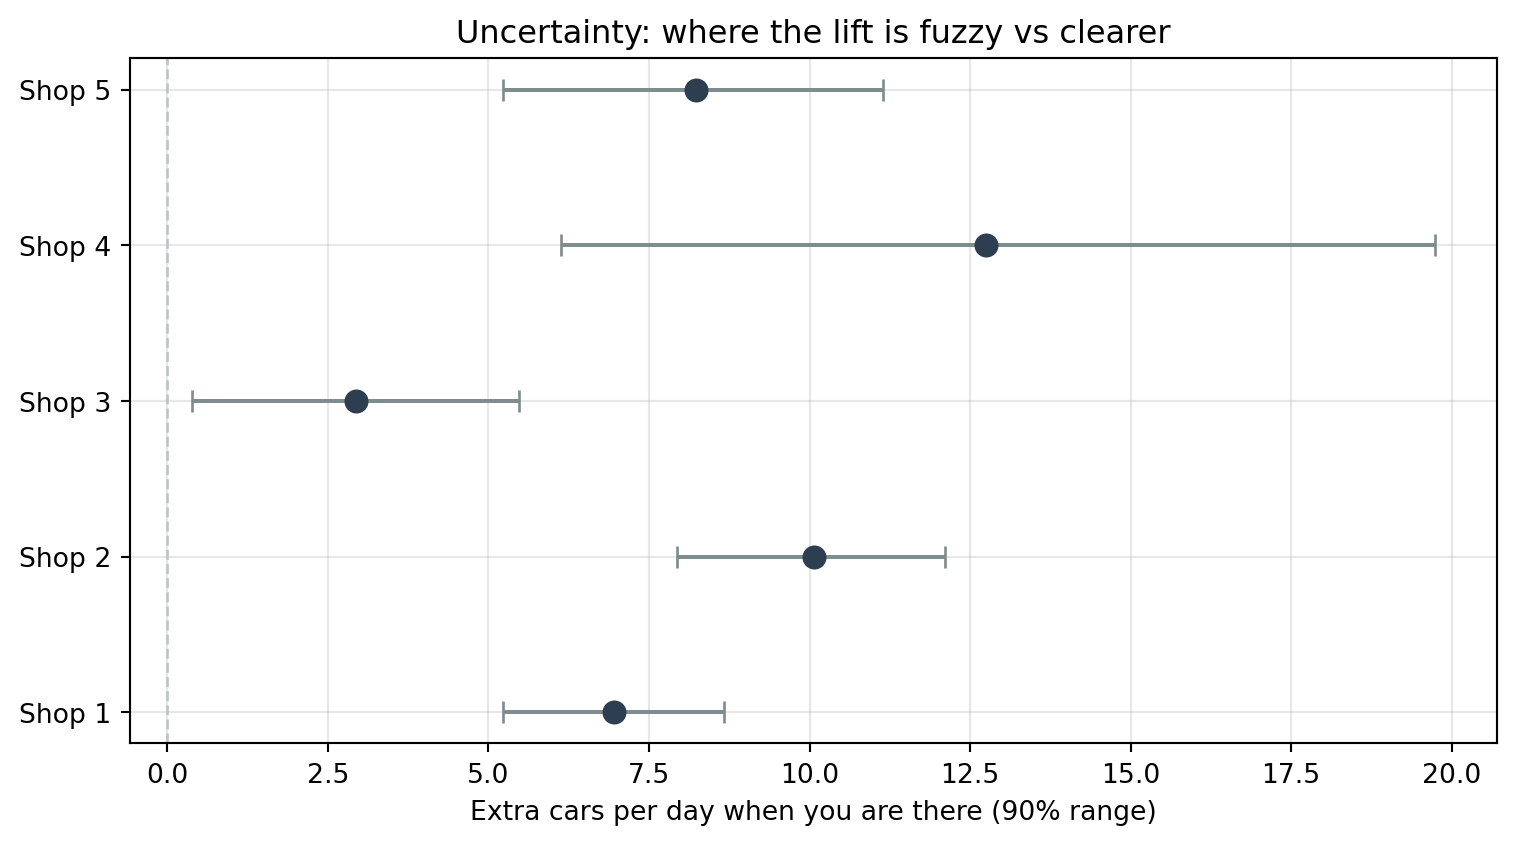
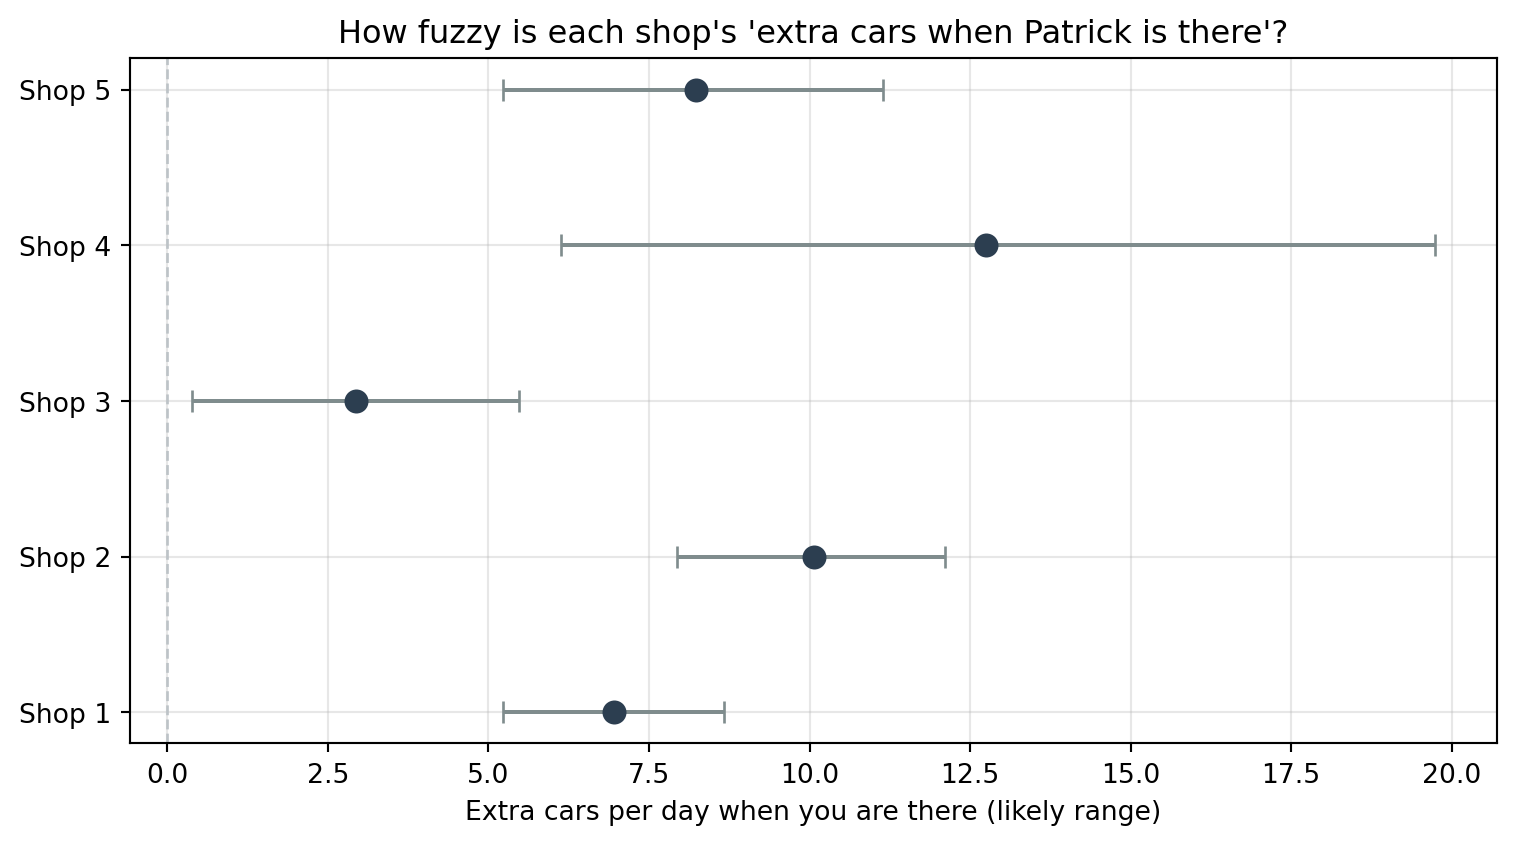
full draft completed

Changed region(s): [[0.2172, 0.0308, 0.8376, 0.0616], [0.3102, 0.9242, 0.7756, 0.9858]]

diff --git a/index.html b/index.html
@@ -50,12 +50,12 @@ ul.task-list li input[type="checkbox"] {
     <h2 id="toc-title">Table of contents</h2>
    
   <ul class="collapse">
-  <li><a href="#executive-summary" id="toc-executive-summary" class="nav-link active" data-scroll-target="#executive-summary">Executive summary</a></li>
-  <li><a href="#what-the-data-shows" id="toc-what-the-data-shows" class="nav-link" data-scroll-target="#what-the-data-shows">What the data shows</a></li>
-  <li><a href="#how-confident-can-you-be" id="toc-how-confident-can-you-be" class="nav-link" data-scroll-target="#how-confident-can-you-be">How confident can you be?</a></li>
-  <li><a href="#what-you-should-do" id="toc-what-you-should-do" class="nav-link" data-scroll-target="#what-you-should-do">What you should do</a></li>
-  <li><a href="#money-picture-illustration-only" id="toc-money-picture-illustration-only" class="nav-link" data-scroll-target="#money-picture-illustration-only">Money picture (illustration only)</a></li>
-  <li><a href="#future-look-simple-scheduling-scenarios" id="toc-future-look-simple-scheduling-scenarios" class="nav-link" data-scroll-target="#future-look-simple-scheduling-scenarios">Future look: simple scheduling scenarios</a></li>
+  <li><a href="#executive-summary-plain-english" id="toc-executive-summary-plain-english" class="nav-link active" data-scroll-target="#executive-summary-plain-english">Executive summary (plain English)</a></li>
+  <li><a href="#what-we-measured" id="toc-what-we-measured" class="nav-link" data-scroll-target="#what-we-measured">What we measured</a></li>
+  <li><a href="#how-sure-can-we-be" id="toc-how-sure-can-we-be" class="nav-link" data-scroll-target="#how-sure-can-we-be">How sure can we be?</a></li>
+  <li><a href="#recommendations-for-you-running-the-business" id="toc-recommendations-for-you-running-the-business" class="nav-link" data-scroll-target="#recommendations-for-you-running-the-business">Recommendations (for you, running the business)</a></li>
+  <li><a href="#money-picture-rough-illustration-only" id="toc-money-picture-rough-illustration-only" class="nav-link" data-scroll-target="#money-picture-rough-illustration-only">Money picture (rough illustration only)</a></li>
+  <li><a href="#future-look-what-if-i-spend-those-days-somewhere-else" id="toc-future-look-what-if-i-spend-those-days-somewhere-else" class="nav-link" data-scroll-target="#future-look-what-if-i-spend-those-days-somewhere-else">Future look: “what if I spend those days somewhere else?”</a></li>
   <li><a href="#closing" id="toc-closing" class="nav-link" data-scroll-target="#closing">Closing</a></li>
   </ul>
 </nav>
@@ -65,7 +65,7 @@ ul.task-list li input[type="checkbox"] {
 <header id="title-block-header" class="quarto-title-block default">
 <div class="quarto-title">
 <h1 class="title">Scheduling Report for Patrick</h1>
-<p class="subtitle lead">Where Your Presence Adds the Most Cars (and Revenue)</p>
+<p class="subtitle lead">Where Showing Up Moves the Most Cars Through the Doors</p>
 </div>
 
 
@@ -82,15 +82,22 @@ ul.task-list li input[type="checkbox"] {
 </header>
 
 
-<section id="executive-summary" class="level2">
-<h2 class="anchored" data-anchor-id="executive-summary">Executive summary</h2>
-<p>Patrick, you asked a simple question: <strong>when you show up at one shop for the day, where does it pay off most?</strong> This report uses 50 days of records across your five shops (250 shop‑days total). The clearest pattern: <strong>Shops 4 and 2 jump the most when you are there.</strong> Shop 3 moves the least—so if you love visiting your brother there, that is fine emotionally, but the numbers say it is not where you “buy” the most extra cars with your time.</p>
-<p>Because some shops have very few “boss present” days in the data, treat the exact numbers as <strong>ballpark guides</strong>, not guarantees. The charts show every single row we have, and the scenario chart translates the pattern into <strong>what could change if you shift where you spend days.</strong></p>
+<section id="executive-summary-plain-english" class="level2">
+<h2 class="anchored" data-anchor-id="executive-summary-plain-english">Executive summary (plain English)</h2>
+<p>Patrick, you wanted to know: <strong>if you spend a day at one location instead of another, where does your being there actually show up in the work count?</strong></p>
+<p>We looked at <strong>50 days</strong> of records across <strong>five shops</strong>. Think of that as <strong>250 separate snapshots</strong>: each snapshot is “one shop, one day,” with how many cars got finished that day and whether you were on site.</p>
+<p><strong>What we found</strong></p>
+<ul>
+<li><strong>Shops 4 and 2</strong> are where your visits line up with the <strong>biggest bump</strong> in cars completed versus days you were not there.</li>
+<li><strong>Shop 3</strong> shows the <strong>smallest bump</strong>. That does <strong>not</strong> mean Shop 3 is a bad shop or that you should feel guilty about family there—it means <strong>your time on the floor moves the needle least there</strong>, compared with 4 and 2.</li>
+</ul>
+<p><strong>How seriously to take the exact numbers</strong></p>
+<p>You were not recorded at every shop equally often. Some locations only have a few “Patrick was here” days in this file. So treat the figures as <strong>rough guides</strong>, not promises. They still tell a useful story about <strong>where your presence shows up most</strong>.</p>
 <hr>
 </section>
-<section id="what-the-data-shows" class="level2">
-<h2 class="anchored" data-anchor-id="what-the-data-shows">What the data shows</h2>
-<p>Each point in <a href="#fig-all-points" class="quarto-xref">Figure&nbsp;1</a> is one shop‑day: cars fixed that day, split by whether you were there. Jitter and transparency keep all <strong>250</strong> points visible.</p>
+<section id="what-we-measured" class="level2">
+<h2 class="anchored" data-anchor-id="what-we-measured">What we measured</h2>
+<p>Each dot in <a href="#fig-all-points" class="quarto-xref">Figure&nbsp;1</a> is <strong>one shop, one day</strong>: how many cars were fixed that day, and whether you were there. (The dots are nudged slightly left or right so overlapping points do not stack on top of each other—that is all “jitter” means.)</p>
 <div id="cell-fig-all-points" class="cell" data-execution_count="1">
 <div class="cell-output cell-output-display">
 <div id="fig-all-points" class="quarto-float quarto-figure quarto-figure-center anchored">
@@ -99,18 +106,18 @@ ul.task-list li input[type="checkbox"] {
 <img src="index_files/figure-html/fig-all-points-output-1.png" width="950" height="518" class="figure-img">
 </div>
 <figcaption class="quarto-float-caption-bottom quarto-float-caption quarto-float-fig" id="fig-all-points-caption-0ceaefa1-69ba-4598-a22c-09a6ac19f8ca">
-Figure&nbsp;1: Every shop-day in the file (250 points). Orange = you were there; blue = you were not. Jitter helps overlapping points show.
+Figure&nbsp;1: Each dot is one shop-day (250 total). Orange = you were on site; blue = you were not. Dots are spread sideways slightly so you can see pile-ups.
 </figcaption>
 </figure>
 </div>
 </div>
 </div>
-<p><a href="#tbl-lift" class="quarto-xref">Table&nbsp;1</a> summarizes average cars with and without you, and the <strong>lift</strong> (extra cars per day when you are there, on average).</p>
+<p><a href="#tbl-lift" class="quarto-xref">Table&nbsp;1</a> is the scorecard: for each shop, <strong>average cars on days you were there</strong> versus <strong>average cars on days you were not</strong>, and the <strong>extra cars per day</strong> when you show up (the difference).</p>
 <div class="cell" data-execution_count="2">
 <div id="tbl-lift" class="cell quarto-float quarto-figure quarto-figure-center anchored" data-execution_count="2">
 <figure class="quarto-float quarto-float-tbl figure">
 <figcaption class="quarto-float-caption-top quarto-float-caption quarto-float-tbl" id="tbl-lift-caption-0ceaefa1-69ba-4598-a22c-09a6ac19f8ca">
-Table&nbsp;1: Average cars fixed when you are absent vs present, and the lift (present minus absent) by shop.
+Table&nbsp;1: Per shop: how many days fall in each bucket, average cars when you were away vs on site, and extra cars per day when you are there.
 </figcaption>
 <div aria-describedby="tbl-lift-caption-0ceaefa1-69ba-4598-a22c-09a6ac19f8ca">
 <div class="cell-output cell-output-display" data-execution_count="2">
@@ -186,12 +193,13 @@ Table&nbsp;1: Average cars fixed when you are absent vs present, and the lift (p
 </figure>
 </div>
 </div>
-<p><strong>Plain English read:</strong> Shops <strong>4</strong> and <strong>2</strong> show the largest lift. Shop <strong>3</strong> shows a small lift. That does not mean Shop 3 is “bad”—it means <strong>your presence there does not move the needle as much</strong> as it does at 4 and 2.</p>
+<p><strong>How to read it:</strong> Shops <strong>4</strong> and <strong>2</strong> show the largest <strong>extra cars per day</strong> when you are there. Shop <strong>3</strong> shows a small bump. Again: small bump at 3 is about <strong>your impact when you visit</strong>, not whether the crew there is any good.</p>
 <hr>
 </section>
-<section id="how-confident-can-you-be" class="level2">
-<h2 class="anchored" data-anchor-id="how-confident-can-you-be">How confident can you be?</h2>
-<p>We only have <strong>50</strong> calendar days and <strong>250</strong> shop‑days. Worse, you were only recorded as “present” a handful of times at some shops (see the <code>n_present</code> column in <a href="#tbl-lift" class="quarto-xref">Table&nbsp;1</a>). With small counts, one busy week can skew averages.</p>
+<section id="how-sure-can-we-be" class="level2">
+<h2 class="anchored" data-anchor-id="how-sure-can-we-be">How sure can we be?</h2>
+<p>Fifty days is a start, not a lifetime of data. At some shops, <strong>“Patrick was here”</strong> only happened a few times in the file (see how many days are in each column in <a href="#tbl-lift" class="quarto-xref">Table&nbsp;1</a>). When the counts are low, <strong>one unusually busy or slow stretch</strong> can pull the averages up or down.</p>
+<p>The next chart is our way of saying <strong>“the truth might sit somewhere in this band.”</strong> We ran a standard statistical check (resampling the days you do have) to draw a <strong>range</strong> for the “extra cars when you are there” number. You do not need the math—just know: <strong>wider range = we are less sure</strong>, often because we rarely saw you at that shop in this dataset.</p>
 <div id="cell-fig-bootstrap-lift" class="cell" data-execution_count="3">
 <div class="cell-output cell-output-display">
 <div id="fig-bootstrap-lift" class="quarto-float quarto-figure quarto-figure-center anchored">
@@ -200,34 +208,36 @@ Table&nbsp;1: Average cars fixed when you are absent vs present, and the lift (p
 <img src="index_files/figure-html/fig-bootstrap-lift-output-1.png" width="758" height="422" class="figure-img">
 </div>
 <figcaption class="quarto-float-caption-bottom quarto-float-caption quarto-float-fig" id="fig-bootstrap-lift-caption-0ceaefa1-69ba-4598-a22c-09a6ac19f8ca">
-Figure&nbsp;2: Bootstrap ranges (middle 90%) for ‘extra cars when you are there’ at each shop. Wider bars mean more uncertainty—often because you were rarely present in the data.
+Figure&nbsp;2: For each shop, a likely range for ‘extra cars when Patrick is there.’ Long horizontal bars mean the number could be higher or lower than the dot—we have fewer comparable days.
 </figcaption>
 </figure>
 </div>
 </div>
 </div>
-<p><strong>What could go wrong?</strong> The future may not match the past. Competitors, staffing, seasonality, and luck all matter. The main assumption here is that <strong>past “you there” days are a fair preview of future “you there” days</strong> at each shop.</p>
+<p><strong>Reality check:</strong> Next month could look different from last month—parts delays, who called in sick, weather, competition. This report assumes <strong>a day with you there in the past is a fair guess at a day with you there in the future</strong> for that same shop. That is reasonable for planning, but it is not a crystal ball.</p>
 <hr>
 </section>
-<section id="what-you-should-do" class="level2">
-<h2 class="anchored" data-anchor-id="what-you-should-do">What you should do</h2>
+<section id="recommendations-for-you-running-the-business" class="level2">
+<h2 class="anchored" data-anchor-id="recommendations-for-you-running-the-business">Recommendations (for you, running the business)</h2>
 <ol type="1">
-<li><strong>Prioritize presence at Shops 4 and 2</strong> when the goal is to maximize extra cars from your visits.<br>
+<li><strong>When you want your days on the floor to pull the most weight</strong>, lean toward <strong>Shops 4 and 2</strong> first—those are where the data shows the <strong>biggest gain in cars completed</strong> on days you are there.<br>
 </li>
-<li><strong>Do not read Shop 3’s small lift as “skip family.”</strong> It means that if you have a fixed number of “Patrick on the floor” days, <strong>moving some of those days from 3 to 4 or 2 is where the spreadsheet moves most.</strong><br>
+<li><strong>Shop 3 is not “the problem shop.”</strong> The data only says your physical presence there <strong>does not add as many extra cars</strong> as it does at 4 and 2. If you only have so many days a year to be in the bays, <strong>shifting some of those days from 3 toward 4 or 2 is where the count moves most</strong>—without saying anything bad about the people at 3.<br>
 </li>
-<li><strong>Keep watching the numbers</strong> as you get more “you there” days at 4 and 2—those averages will stabilize.</li>
+<li><strong>Keep tracking this</strong> as you log more “Patrick was here” days, especially at 4 and 2. More weeks of data will make the averages <strong>steadier and easier to trust</strong>.</li>
 </ol>
 <hr>
 </section>
-<section id="money-picture-illustration-only" class="level2">
-<h2 class="anchored" data-anchor-id="money-picture-illustration-only">Money picture (illustration only)</h2>
-<p>Pick a dollar amount per car so the math is easy to follow. If you use <strong>$200 revenue per car</strong> (change this to your real number), then <strong>one extra car per day</strong> is about <strong>$73,000/year</strong> if it happened five days a week for 52 weeks (<code>200 * 5 * 52</code>). That is not a promise—just a way to turn “cars” into “money in your head.”</p>
+<section id="money-picture-rough-illustration-only" class="level2">
+<h2 class="anchored" data-anchor-id="money-picture-rough-illustration-only">Money picture (rough illustration only)</h2>
+<p>Cars turn into rent and payroll when you multiply by <strong>what you actually average per car</strong>—use your books, not our placeholder.</p>
+<p>The table below uses <strong>$200 per car</strong> only as a simple example. It asks: <em>if the “extra cars when you are there” pattern showed up on <strong>one day each week</strong> for a full year</em>, what would that rough revenue look like? That matches the math in the table (<code>extra cars × \$200 × 52 weeks</code>). It is <strong>not</strong> a guarantee—just a way to picture size.</p>
+<p><strong>Quick mental math (optional):</strong> If you prefer to think in <strong>five shop days a week</strong>, each extra car per day at $200 is about <strong>$52,000/year</strong> (<code>200 × 5 × 52</code>). Same idea: plug your real dollar per car.</p>
 <div class="cell" data-execution_count="4">
 <div id="tbl-money" class="cell quarto-float quarto-figure quarto-figure-center anchored" data-execution_count="4">
 <figure class="quarto-float quarto-float-tbl figure">
 <figcaption class="quarto-float-caption-top quarto-float-caption quarto-float-tbl" id="tbl-money-caption-0ceaefa1-69ba-4598-a22c-09a6ac19f8ca">
-Table&nbsp;2: Illustrative annual revenue from the lift, if that lift happened one extra day per week all year, at $200 per car (adjust to your actual ticket).
+Table&nbsp;2: Rough annual dollars if the ‘extra cars when Patrick is there’ pattern happened one day per week all year, at $200 per car—swap in your real average ticket.
 </figcaption>
 <div aria-describedby="tbl-money-caption-0ceaefa1-69ba-4598-a22c-09a6ac19f8ca">
 <div class="cell-output cell-output-display" data-execution_count="4">
@@ -284,9 +294,10 @@ Table&nbsp;2: Illustrative annual revenue from the lift, if that lift happened o
 </div>
 <hr>
 </section>
-<section id="future-look-simple-scheduling-scenarios" class="level2">
-<h2 class="anchored" data-anchor-id="future-look-simple-scheduling-scenarios">Future look: simple scheduling scenarios</h2>
-<p><a href="#fig-scenarios" class="quarto-xref">Figure&nbsp;3</a> shows a <strong>what‑if</strong>: if in a year you <strong>moved</strong> some of your on‑site days from Shop 3 to another shop, how many <strong>extra cars</strong> that could add, using the lifts we measured. This is not a full simulator—it is a transparent back‑of‑the‑envelope so you can see direction and scale.</p>
+<section id="future-look-what-if-i-spend-those-days-somewhere-else" class="level2">
+<h2 class="anchored" data-anchor-id="future-look-what-if-i-spend-those-days-somewhere-else">Future look: “what if I spend those days somewhere else?”</h2>
+<p><a href="#fig-scenarios" class="quarto-xref">Figure&nbsp;3</a> is a <strong>simple story problem</strong>, not precision forecasting. It says: <em>Suppose over a year you took <strong>20 days</strong> you would have spent at Shop 3 and worked those days at Shop 4, 2, or 5 instead.</em> How many <strong>extra cars for the year</strong> might that add, using the patterns we already saw?</p>
+<p>The bars show <strong>order of magnitude</strong> (more vs less), not a promise. If you start visiting one shop way more often, the shop’s rhythm can change—this is a starting point for conversation, not a contract.</p>
 <div id="cell-fig-scenarios" class="cell" data-execution_count="5">
 <div class="cell-output cell-output-display">
 <div id="fig-scenarios" class="quarto-float quarto-figure quarto-figure-center anchored">
@@ -295,7 +306,7 @@ Table&nbsp;2: Illustrative annual revenue from the lift, if that lift happened o
 <img src="index_files/figure-html/fig-scenarios-output-1.png" width="853" height="422" class="figure-img">
 </div>
 <figcaption class="quarto-float-caption-bottom quarto-float-caption quarto-float-fig" id="fig-scenarios-caption-0ceaefa1-69ba-4598-a22c-09a6ac19f8ca">
-Figure&nbsp;3: Rough extra cars per year if you move ‘presence days’ from Shop 3 to another shop (uses observed lift gap × days moved). Bars are optimistic if lifts change when you visit more often.
+Figure&nbsp;3: Rough extra cars per year if 20 of your Shop 3 days moved to another shop (based on the gaps we measured). Treat as directional, not exact.
 </figcaption>
 </figure>
 </div>
@@ -305,7 +316,9 @@ Figure&nbsp;3: Rough extra cars per year if you move ‘presence days’ from Sh
 </section>
 <section id="closing" class="level2">
 <h2 class="anchored" data-anchor-id="closing">Closing</h2>
-<p><strong>Bottom line:</strong> the data says your presence <strong>matters most at Shops 4 and 2</strong>, and <strong>least at Shop 3</strong> in terms of extra cars per visit. Use that to steer your calendar, stay humble about sample size, and update this picture as you collect more balanced weeks at each location.</p>
+<p><strong>Outcomes:</strong> On days we could compare, <strong>Shops 4 and 2</strong> pick up the most extra cars when you are on the floor. <strong>Shop 3</strong> picks up the least—again, that is about <strong>your visit</strong>, not a grade on the staff.</p>
+<p><strong>Results you can use:</strong> When you are deciding <strong>where to put your own boots-on-the-ground days</strong>, lean toward <strong>4 and 2</strong> if the goal is to move the car count. Keep logging visits so the picture gets clearer over time.</p>
+<p><strong>Recommendations:</strong> (1) <strong>Calendar:</strong> favor 4 and 2 for high-impact days when you can. (2) <strong>Shop 3:</strong> no shame in family or loyalty—just know the numbers say <strong>fewer extra cars per visit</strong> there. (3) <strong>Next step:</strong> add more weeks of data and rerun this so the averages are built on more “Patrick was here” days at each location.</p>
 </section>
 
 </main>
